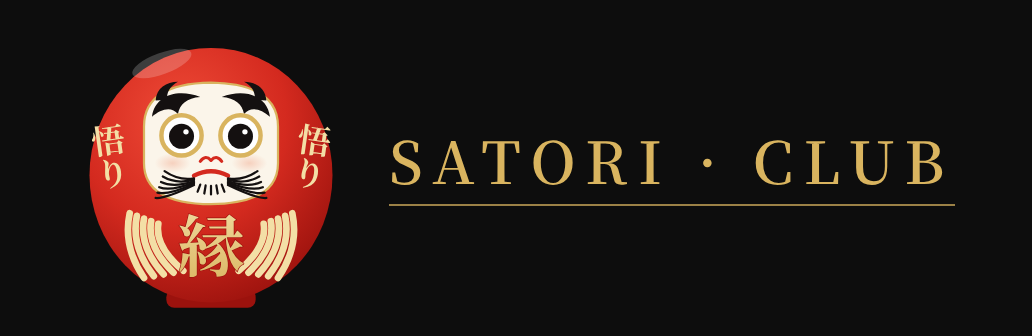
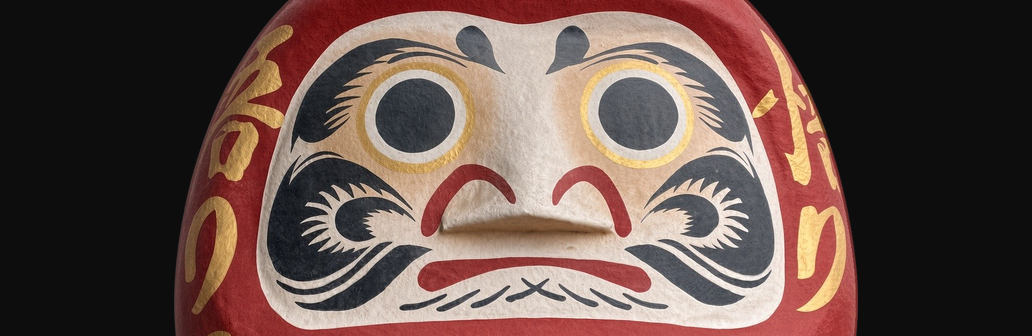
feat(pase): diseño v4 aprobado — daruma real y fondo tinta; se borra el daruma dibujado
Logo 990×990 (el daruma entero en un círculo tinta) y hero 1032×336 (la cara sobre tinta),
sacados de la imagen final de Ismael sin filtros. Se borran daruma.mjs, el PNG dibujado, la
franja roja y la maqueta roja. pase-render.mjs solo arma la maqueta v4 con las piezas
publicadas. El pase sigue apagado (WALLET_DISENO sin cargar) hasta la prueba en un teléfono.

Claude-Session: https://claude.ai/code/session_012WttwDN2JPYLqpCXCgWFwh

diff --git a/docs/club-satori/PROPUESTA-diseno-pase.md b/docs/club-satori/PROPUESTA-diseno-pase.md
@@ -1,32 +1,28 @@
-# Propuesta · diseño del pase de Google Wallet — **maqueta v3 (08-nov), APAGADA hasta el OK de Ismael**
+# Diseño del pase de Google Wallet — **v4 APROBADA (08-nov), APAGADA hasta la prueba en un teléfono**
 
-> **v3 (08-nov):** el **daruma** de Ismael (PDF + captura), dibujado como imagen propia (`img/daruma.mjs` → PNG sin
-> fondo): cuerpo rojo vivo, cara blanca, ojos con aro dorado, cejas y barba negras, **悟り** a los costados y **縁** dorado
-> al centro. Franja «SATORI · CLUB». El 里 sale de todos lados (también del encabezado y el favicon de club-web).
-> Hasta el OK, `WALLET_DISENO` no se carga y el pase sale solo con el fondo `#0d0d0d`.
+> **Decisiones de Ismael (08-nov):** fondo **tinta `#0d0d0d`**; el daruma es la **imagen final de Ismael** (hecha a partir
+> de una foto del daruma real; se puede publicar), sin filtros ni retoques de estilo. El daruma dibujado (v3) y la
+> variante roja se borraron. **El pase sigue apagado** hasta que Ismael tenga la cuenta de Google Wallet y lo probemos en
+> un teléfono: hasta entonces `WALLET_DISENO` no se carga.
 
-**Fondo: recomiendo que siga TINTA `#0d0d0d`.** El daruma es rojo: sobre fondo rojo el cuerpo se funde con el fondo y se
-pierde la silueta (ver la maqueta roja); sobre tinta, el rojo, el blanco de la cara y el oro resaltan, y queda igual que
-el encabezado de club-web y de la app.
+![Maqueta v4, fondo tinta](img/pase-propuesta.png)
 
-| Tinta (recomendado) | Rojo |
-|---|---|
-| ![Maqueta v3, fondo tinta](img/pase-propuesta.png) | ![Maqueta v3, fondo rojo](img/pase-propuesta-rojo.png) |
-
-- **Logo** (660×660, `club-web/public/pase/logo.png`): el daruma sin los kanji de los costados (se lee chico), sobre un
-  círculo tinta con filete dorado.
-- **Franja** (`heroImage`, 1032×336, `club-web/public/pase/hero.png`; la variante roja en `hero-rojo.png`): el daruma
-  completo + «SATORI · CLUB».
+- **Logo** (990×990, `club-web/public/pase/logo.png`): el daruma entero, centrado en un círculo tinta (Google muestra el
+  logo en círculo); fuera del círculo, transparente.
+- **Franja** (`heroImage`, 1032×336, `club-web/public/pase/hero.png`): la cara del daruma sobre tinta.
 - **Texto del socio:** «Vale en todos los Satori» (Club compartido), sin lista de promociones.
-- Se regeneran con `docs/club-satori/img/pase-render.mjs` (Playwright + Google Fonts).
+- **De dónde salen:** `docs/club-satori/img/daruma/` guarda el original sin tocar y los scripts (`daruma_assets.py`: solo
+  recorta el fondo blanco, escala y compone sobre tinta). La maqueta se regenera con
+  `node docs/club-satori/img/pase-render.mjs` desde la raíz del repo.
 
 | Pieza | Archivo | URL pública cuando se publique club-web |
 |---|---|---|
 | Logo | `club-web/public/pase/logo.png` | `https://club.satoricostarica.com/pase/logo.png` |
 | Franja | `club-web/public/pase/hero.png` | `https://club.satoricostarica.com/pase/hero.png` |
 
-## Cómo se enciende (después de aprobar)
+## Cómo se enciende (después de la prueba en un teléfono y el OK de Ismael)
 - En el Edge `club-pase`, secreto/variable
   `WALLET_DISENO = {"colorFondo":"#0d0d0d","logoUrl":"https://club.satoricostarica.com/pase/logo.png","heroUrl":"https://club.satoricostarica.com/pase/hero.png"}`
-  (con fondo rojo: `"colorFondo":"#d42a1f"` y `hero-rojo.png`).
 - Es la constante `DISENO_PROPUESTO` de `src/shared/wallet/googlePase.ts`.
+- Antes: publicar club-web (las imágenes tienen que estar en línea) y probar «Guardar en Google Wallet» en un teléfono
+  real con la cuenta de emisor de Ismael.
